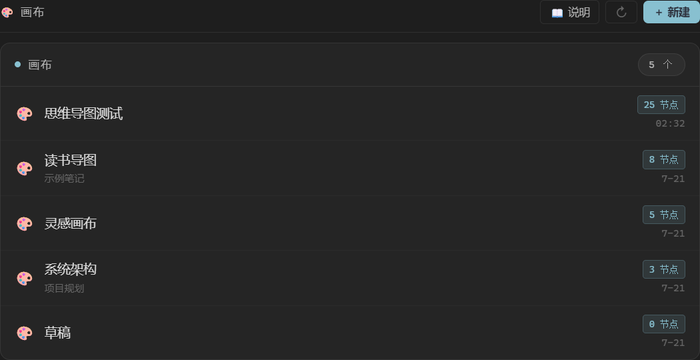
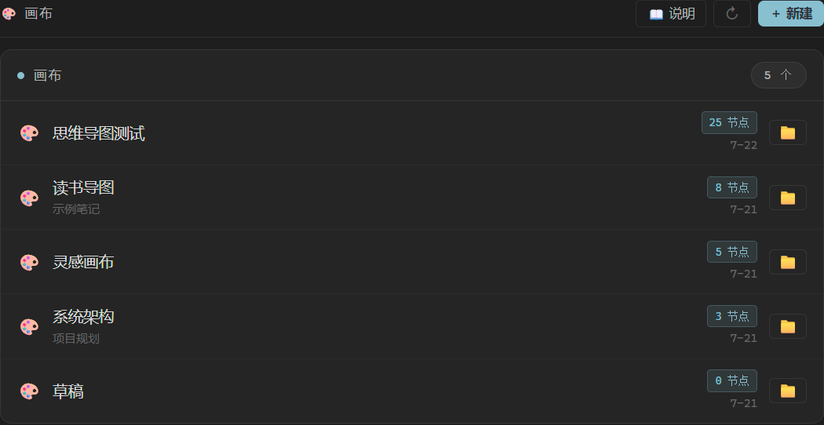
docs: canvases gallery image + README for v1.75.0 (reveal button + unified folder)

diff --git a/README.md b/README.md
@@ -182,7 +182,7 @@
 
 <div align="center">
   <img src="docs/img/module-canvases.png" width="560" alt="画布"><br>
-  <b>🎨 画布</b> · <sub>全库 <code>.canvas</code> 画布的<b>统一入口</b>：自动扫出 vault 里所有画布，列成卡片（名称 / 所在文件夹 / 节点数 / 修改时间），<b>点击直接打开</b>、＋ 一键新建、↻ 刷新——不用再去文件树里翻。配合下方插件级功能「🧠 画布思维导图」，就是一套原生 Canvas 思维导图工作流。</sub>
+  <b>🎨 画布</b> · <sub>全库 <code>.canvas</code> 画布的<b>统一入口</b>：自动扫出 vault 里所有画布，列成卡片（名称 / 所在文件夹 / 节点数 / 修改时间），<b>点击直接打开</b>、＋ 一键新建、↻ 刷新——不用再去文件树里翻；每行 <b>📁 一键在文件列表中定位</b>该画布（自动展开所在文件夹并高亮，方便就地移动 / 改名）。<b>新建的画布统一存放</b>到设置指定的文件夹（默认 <code>Data/canvas</code>，不存在自动创建）。配合下方插件级功能「🧠 画布思维导图」，就是一套原生 Canvas 思维导图工作流。</sub>
 </div>
 
 <div align="center">